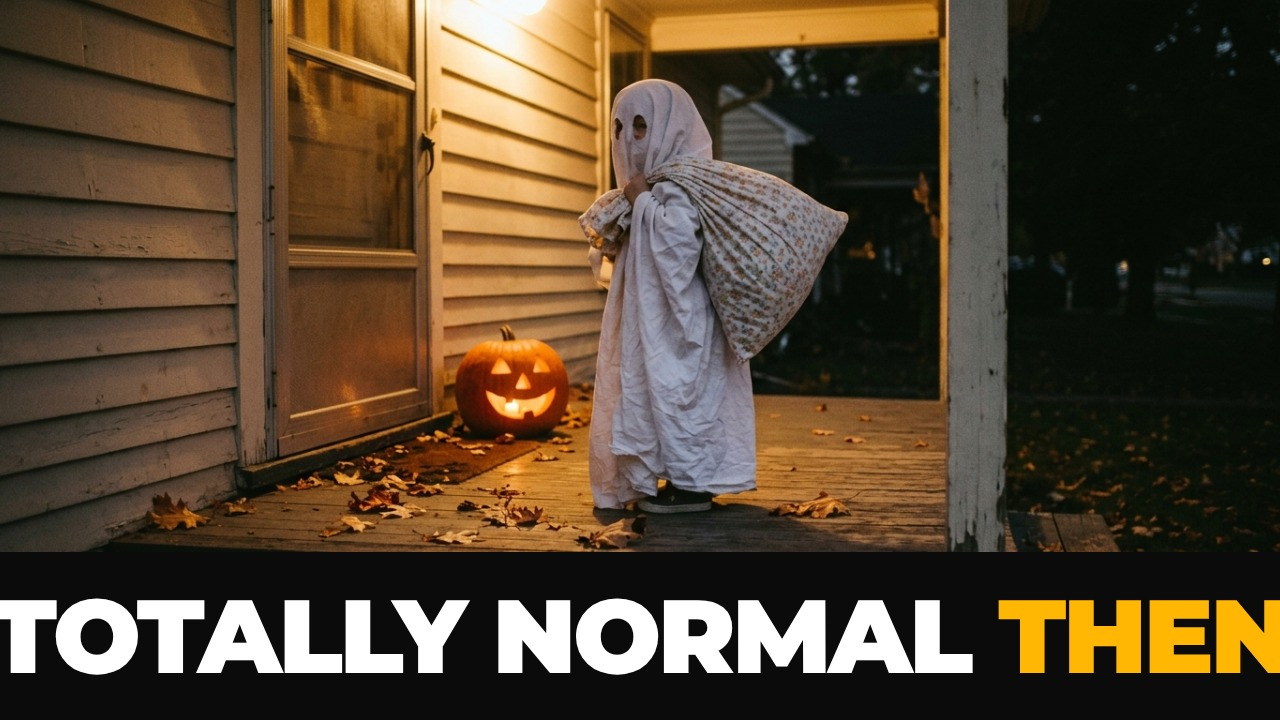
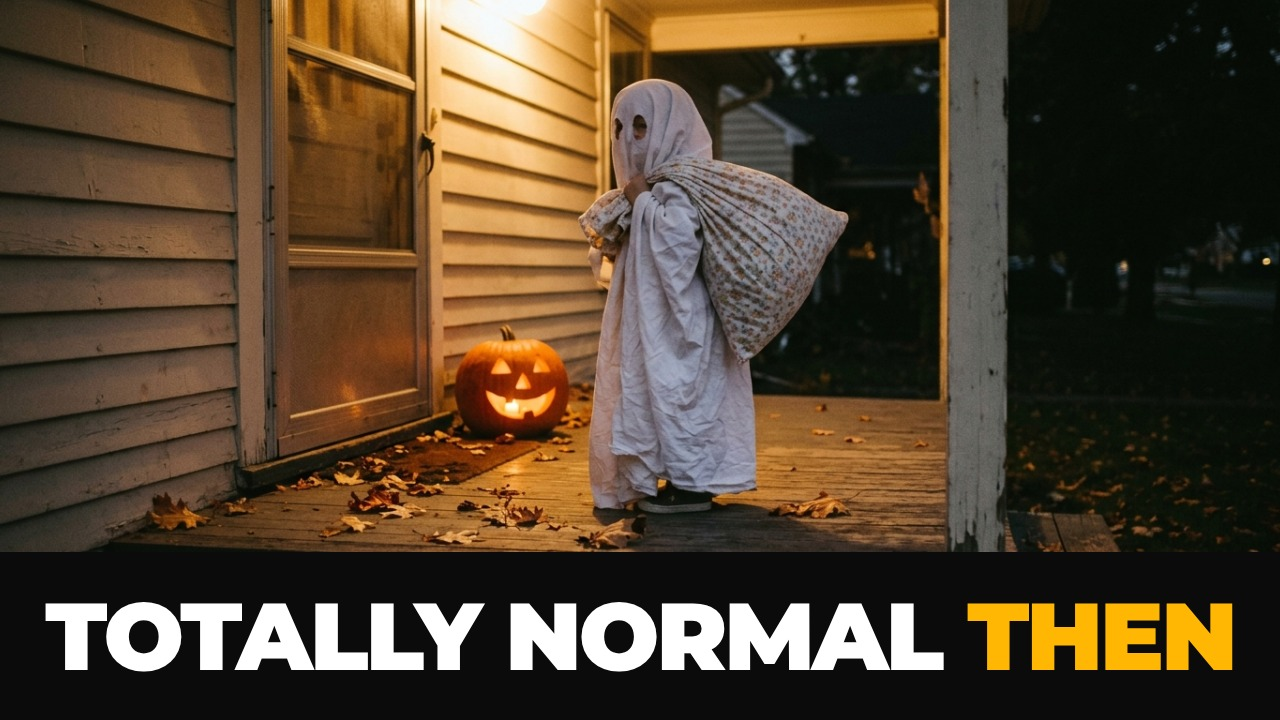
Kapak: yazı tipi yüklenmeden ölçüm yapıldığı için taşan metin düzeltildi
Claude-Session: https://claude.ai/code/session_012PZAbjBrC7pp2zZRmc1u5L

Changed region(s): [[0.0, 0.825, 1.0, 0.9472]]

diff --git a/youtube-kanal/pipeline/src/render/thumbnail.html b/youtube-kanal/pipeline/src/render/thumbnail.html
@@ -42,7 +42,9 @@
 <body>
 <div id="root"></div>
 <script>
-  window.mountThumb = (spec) => {
+  window.mountThumb = async (spec) => {
+    // Ölçümden önce yazı tipinin yüklenmesini bekle; yoksa yedek yazı tipine göre ölçülür ve metin taşar.
+    await Promise.all([document.fonts.load("900 104px 'Montserrat'"), document.fonts.load("800 40px 'Montserrat'")]).catch(() => {});
     const css = document.documentElement.style;
     css.setProperty('--accent', spec.brand.accent);
     css.setProperty('--accent2', spec.brand.accent2);
@@ -57,7 +59,7 @@
       root.innerHTML = `${spec.image ? `<img class="bar-img" src="${spec.image}">` : ''}<div class="bar-strip"><div class="bar-text">${esc(w.join(' '))}${last ? ` <b>${esc(last)}</b>` : ''}</div></div>`;
       const t = root.querySelector('.bar-text');
       let size = 104;
-      while (t.scrollWidth > 1220 && size > 50) { size -= 3; t.style.fontSize = size + 'px'; }
+      while (t.getBoundingClientRect().width > 1220 && size > 50) { size -= 3; t.style.fontSize = size + 'px'; }
       return Promise.all([...document.images].map((img) => img.complete ? null : new Promise((r) => { img.onload = img.onerror = r; })));
     }
     const words = spec.text.split(/\s+/).filter(Boolean);
